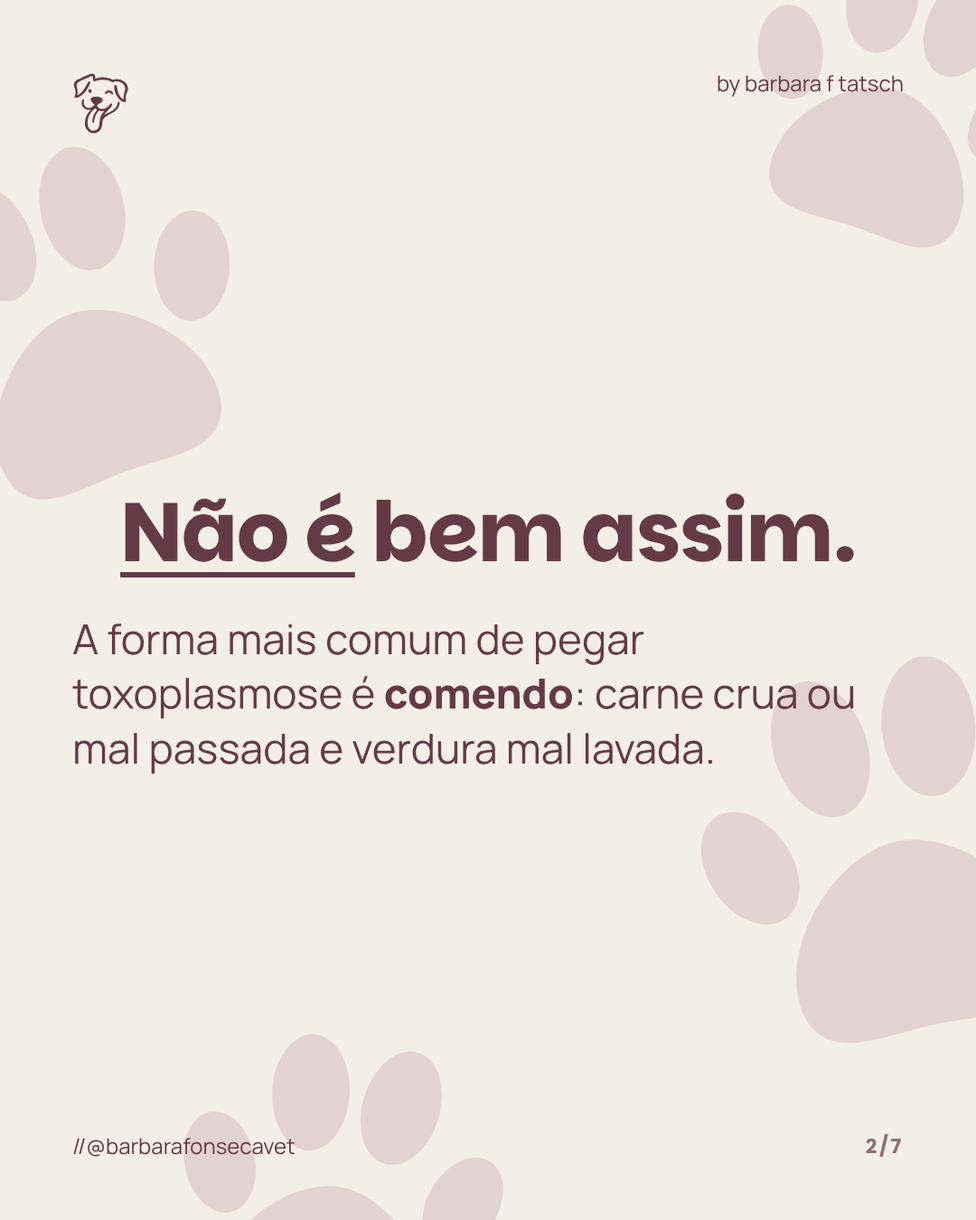
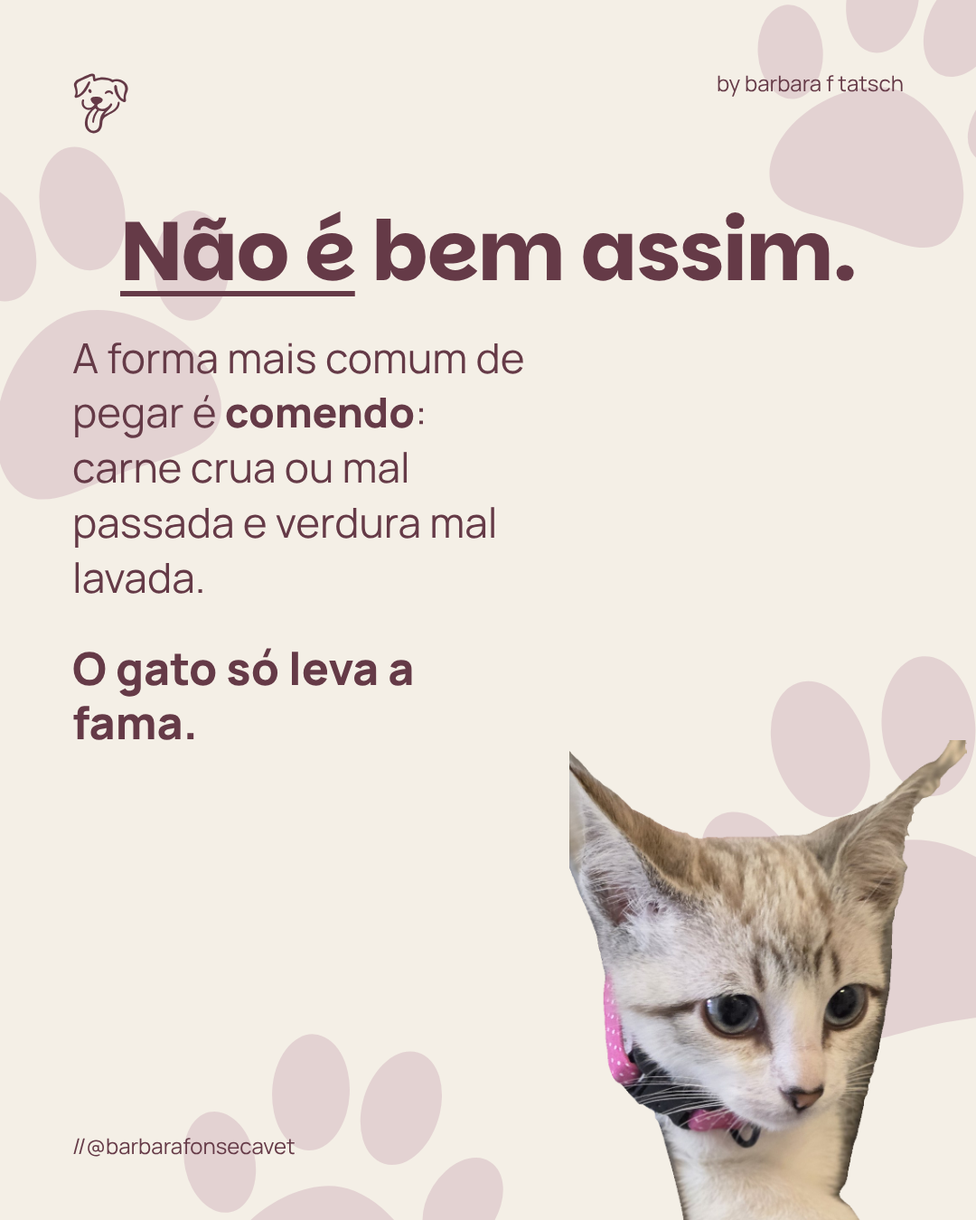
Carrosséis misturando os 8 estilos do Figma da Barbara
Claude-Session: https://claude.ai/code/session_012dBNqwcpy8QWcz4DKmFao3

Changed region(s): [[0.0611, 0.28, 1.0, 1.0], [0.1222, 0.1556, 0.8861, 0.2489]]

diff --git a/Barbara/posts/carrosseis-figma/01-toxoplasmose.html b/Barbara/posts/carrosseis-figma/01-toxoplasmose.html
@@ -1,46 +1,33 @@
-<!doctype html><html lang="pt-BR"><head><meta charset="utf-8"><title>Toxoplasmose é doença do gato?</title>
-<link rel="stylesheet" href="../../design-system/components/bundle.css"><link rel="stylesheet" href="estilo.css"></head><body><div class="tira">
+<!doctype html><html lang="pt-BR"><head><meta charset="utf-8"><link rel="stylesheet" href="../../design-system/components/bundle.css"><link rel="stylesheet" href="estilo.css"><title>Toxoplasmose é doença do gato?</title></head><body><div class="tira">
+
+<section class="s foto-s"><img class="foto" src="../../design-system/assets/Fotos/dois-gatos.jpg" alt="Dois gatos encostando o focinho"><div class="sombra-topo"></div><i class="bf-logo"></i><p class="by">by barbara f tatsch</p><p class="handle">//@barbarafonsecavet</p>
+  <div class="grupo-baixo"><div class="bf-tarja"><span>Toxoplasmose é</span><span><b>doença do gato?</b> 🐈</span></div></div></section>
 
 <section class="s creme"><i class="pata" style="left:-130px;top:150px;width:420px;height:420px;transform:rotate(-20deg)"></i><i class="pata" style="right:-90px;top:-70px;width:360px;height:360px;transform:rotate(18deg)"></i><i class="pata" style="right:-150px;bottom:170px;width:470px;height:470px;transform:rotate(-12deg)"></i><i class="pata" style="left:180px;bottom:-170px;width:390px;height:390px;transform:rotate(10deg)"></i> <i class="bf-logo"></i><p class="by">by barbara f tatsch</p><p class="handle">//@barbarafonsecavet</p>
-  <img class="recorte" src="recorte-filhote-gato.png" alt="" style="right:20px;bottom:0;width:470px">
-  <div class="miolo" style="justify-content:flex-start;top:230px">
-    <h1 class="titulo">Toxoplasmose é <u>doença do gato</u>?</h1>
-    <p class="corpo" style="max-width:500px">Muita gente acha que sim. Tem até quem pense em <b>doar o gato</b> quando descobre a gravidez.</p>
-    <p class="fecho" style="max-width:500px">Vem que eu te explico 💗</p>
-  </div>
-</section>
+  <img class="recorte" src="recorte-filhote-gato.png" alt="" style="right:10px;bottom:0;width:440px">
+  <div class="miolo" style="justify-content:flex-start;top:230px"><h2 class="titulo"><u>Não é</u> bem assim.</h2>
+  <p class="corpo" style="max-width:520px">A forma mais comum de pegar é <b>comendo</b>: carne crua ou mal passada e verdura mal lavada.</p>
+  <p class="fecho" style="max-width:520px">O gato só leva a fama.</p></div></section>
 
-<section class="s creme"><i class="pata" style="left:-130px;top:150px;width:420px;height:420px;transform:rotate(-20deg)"></i><i class="pata" style="right:-90px;top:-70px;width:360px;height:360px;transform:rotate(18deg)"></i><i class="pata" style="right:-150px;bottom:170px;width:470px;height:470px;transform:rotate(-12deg)"></i><i class="pata" style="left:180px;bottom:-170px;width:390px;height:390px;transform:rotate(10deg)"></i> <i class="bf-logo"></i><p class="by">by barbara f tatsch</p><p class="handle">//@barbarafonsecavet</p><p class="pag">2/7</p>
-  <div class="miolo"><h2 class="titulo"><u>Não é</u> bem assim.</h2>
-  <p class="corpo">A forma mais comum de pegar toxoplasmose é <b>comendo</b>: carne crua ou mal passada e verdura mal lavada.</p></div>
-</section>
+<section class="s foto-s"><img class="foto" src="../../design-system/assets/Fotos/pet-caminhando.webp" alt="Gato frajola no jardim"><div class="sombra-baixo"></div><i class="bf-logo"></i><p class="by">by barbara f tatsch</p><p class="handle">//@barbarafonsecavet</p>
+  <div class="grupo-topo"><div class="bf-tarja bf-tarja--salvia"><span>O gato <b>elimina pouco</b></span></div></div>
+  <div class="texto-pe"><p class="texto-foto">Ele só solta o parasita no cocô <b>por poucas semanas</b>, geralmente <u>na primeira vez que se infecta</u>.</p></div></section>
 
-<section class="s creme"><i class="pata" style="left:-130px;top:150px;width:420px;height:420px;transform:rotate(-20deg)"></i><i class="pata" style="right:-90px;top:-70px;width:360px;height:360px;transform:rotate(18deg)"></i><i class="pata" style="right:-150px;bottom:170px;width:470px;height:470px;transform:rotate(-12deg)"></i><i class="pata" style="left:180px;bottom:-170px;width:390px;height:390px;transform:rotate(10deg)"></i> <i class="bf-logo"></i><p class="by">by barbara f tatsch</p><p class="handle">//@barbarafonsecavet</p><p class="pag">3/7</p>
-  <div class="miolo"><h2 class="titulo">O gato <u>elimina pouco</u>.</h2>
-  <p class="corpo">Ele só solta o parasita no cocô <b>por poucas semanas</b>, geralmente na primeira vez que se infecta.</p></div>
-</section>
+<section class="s vinho"><i class="bf-logo"></i><p class="by">by barbara f tatsch</p><p class="handle">//@barbarafonsecavet</p>
+  <h2 class="e5-titulo">E o cocô fresquinho não passa.</h2>
+  <img class="recorte" src="recorte-dois-gatos.png" alt="" style="right:-40px;bottom:120px;width:520px">
+  <p class="e5-texto">Ele leva <b>de 1 a 5 dias</b> pra ficar infectante. Limpar a caixinha <b>todo dia</b> já corta esse caminho.</p></section>
 
-<section class="s creme"><i class="pata" style="left:-130px;top:150px;width:420px;height:420px;transform:rotate(-20deg)"></i><i class="pata" style="right:-90px;top:-70px;width:360px;height:360px;transform:rotate(18deg)"></i><i class="pata" style="right:-150px;bottom:170px;width:470px;height:470px;transform:rotate(-12deg)"></i><i class="pata" style="left:180px;bottom:-170px;width:390px;height:390px;transform:rotate(10deg)"></i> <i class="bf-logo"></i><p class="by">by barbara f tatsch</p><p class="handle">//@barbarafonsecavet</p><p class="pag">4/7</p>
-  <div class="miolo"><h2 class="titulo">E o cocô <u>fresquinho</u> não passa.</h2>
-  <p class="corpo">Ele leva <b>de 1 a 5 dias</b> pra ficar infectante. Limpar a caixinha <b>todo dia</b> já corta esse caminho.</p></div>
-</section>
+<section class="s foto-s"><img class="foto" src="../../design-system/assets/Fotos/filhote-gato-no-casaco.jpg" alt="Gatinho no colo, dentro do casaco"><div class="sombra-topo" style="background:linear-gradient(180deg,rgba(40,15,24,.6) 0%,rgba(40,15,24,.25) 30%,rgba(40,15,24,0) 45%)"></div><i class="bf-logo"></i><p class="by">by barbara f tatsch</p><p class="handle">//@barbarafonsecavet</p>
+  <div class="grupo-topo"><div class="bf-tarja"><span>Grávida? <b>Fica com o gato.</b></span></div>
+  <p class="texto-mini">Pede pra outra pessoa limpar a caixinha. Se não der, usa <b>luva</b> e <b>lava bem as mãos</b>.</p></div></section>
 
-<section class="s creme"><i class="pata" style="left:-130px;top:150px;width:420px;height:420px;transform:rotate(-20deg)"></i><i class="pata" style="right:-90px;top:-70px;width:360px;height:360px;transform:rotate(18deg)"></i><i class="pata" style="right:-150px;bottom:170px;width:470px;height:470px;transform:rotate(-12deg)"></i><i class="pata" style="left:180px;bottom:-170px;width:390px;height:390px;transform:rotate(10deg)"></i> <i class="bf-logo"></i><p class="by">by barbara f tatsch</p><p class="handle">//@barbarafonsecavet</p><p class="pag">5/7</p>
-  <div class="miolo"><h2 class="titulo">Grávida? <u>Fica com o gato</u>.</h2>
-  <p class="corpo">Pede pra outra pessoa limpar a caixinha. Se não der, usa <b>luva</b> e <b>lava bem as mãos</b> depois.</p></div>
-</section>
+<section class="s"><img class="fundo-escuro" src="../../design-system/assets/Fotos/gato-cinza-cadeira.jpg" alt=""><i class="bf-logo"></i><p class="by">by barbara f tatsch</p><p class="handle">//@barbarafonsecavet</p>
+  <h2 class="e7-titulo">Gato de apartamento</h2>
+  <div class="e7-quadro" role="img" aria-label="Gato cinza espiando atrás da mesa" style="background:url(../../design-system/assets/Fotos/gato-cinza-cadeira.jpg) 47% 47%/240% auto no-repeat"></div>
+  <p class="e7-texto">que come ração e não caça tem <b>bem menos chance</b> de se infectar.</p></section>
 
-<section class="s creme"><i class="pata" style="left:-130px;top:150px;width:420px;height:420px;transform:rotate(-20deg)"></i><i class="pata" style="right:-90px;top:-70px;width:360px;height:360px;transform:rotate(18deg)"></i><i class="pata" style="right:-150px;bottom:170px;width:470px;height:470px;transform:rotate(-12deg)"></i><i class="pata" style="left:180px;bottom:-170px;width:390px;height:390px;transform:rotate(10deg)"></i> <i class="bf-logo"></i><p class="by">by barbara f tatsch</p><p class="handle">//@barbarafonsecavet</p><p class="pag">6/7</p>
-  <div class="miolo"><h2 class="titulo">Gato de <u>apartamento</u></h2>
-  <p class="corpo">que come ração e não caça tem <b>bem menos chance</b> de se infectar.</p></div>
-</section>
-
-<section class="s creme"><i class="pata" style="left:-130px;top:150px;width:420px;height:420px;transform:rotate(-20deg)"></i><i class="pata" style="right:-90px;top:-70px;width:360px;height:360px;transform:rotate(18deg)"></i><i class="pata" style="right:-150px;bottom:170px;width:470px;height:470px;transform:rotate(-12deg)"></i><i class="pata" style="left:180px;bottom:-170px;width:390px;height:390px;transform:rotate(10deg)"></i> <i class="bf-logo"></i><p class="by">by barbara f tatsch</p><p class="handle">//@barbarafonsecavet</p><p class="pag">7/7</p>
-  <img class="recorte" src="recorte-gata-escaminha.png" alt="" style="right:40px;bottom:0;width:380px">
-  <div class="miolo" style="justify-content:flex-start;top:260px">
-    <h2 class="titulo">Conhece uma <u>tutora grávida</u>?</h2>
-    <p class="fecho" style="max-width:500px">Manda esse post pra ela 🫶</p>
-  </div>
-</section>
+<section class="s creme"><i class="bf-logo"></i><p class="by">by barbara f tatsch</p><p class="handle">//@barbarafonsecavet</p>
+  <p class="e8-texto">Conhece uma <b>tutora grávida</b> que tem gato? Manda esse post pra ela 🫶</p></section>
 
 </div></body></html>

diff --git a/Barbara/posts/carrosseis-figma/03-na-hora-da-vacina.html b/Barbara/posts/carrosseis-figma/03-na-hora-da-vacina.html
@@ -1,43 +1,31 @@
-<!doctype html><html lang="pt-BR"><head><meta charset="utf-8"><title>O que ele tenta te dizer na hora da vacina</title>
-<link rel="stylesheet" href="../../design-system/components/bundle.css"><link rel="stylesheet" href="estilo.css"></head><body><div class="tira">
+<!doctype html><html lang="pt-BR"><head><meta charset="utf-8"><link rel="stylesheet" href="../../design-system/components/bundle.css"><link rel="stylesheet" href="estilo.css"><title>O que ele tenta te dizer na hora da vacina</title></head><body><div class="tira">
 
-<section class="s ameixa">
-  <img class="foto" src="../../design-system/assets/Fotos/filhote-gato-no-casaco.jpg" alt="Gatinho dentro do casaco do tutor" style="object-position:50% 35%">
-  <i class="bf-logo" style="color:#F7F0E4"></i><p class="by">by barbara f tatsch</p><p class="handle">//@barbarafonsecavet</p>
-  <div style="position:absolute;z-index:2;left:60px;right:60px;bottom:150px;display:flex;flex-direction:column;align-items:center;gap:22px">
-    <div class="bf-tarja bf-tarja--salvia"><span>O que <b>ele</b> tenta</span><span><b>te dizer</b></span></div>
-    <span class="etiqueta">[na hora da vacina?]</span>
-  </div>
-</section>
+<section class="s foto-s"><img class="foto" src="../../design-system/assets/Fotos/pitbull-cinza-mesa.jpg" alt="Filhote cinza na mesa do consultório" style="object-position:50% 30%"><div class="sombra-topo"></div><i class="bf-logo"></i><p class="by">by barbara f tatsch</p><p class="handle">//@barbarafonsecavet</p>
+  <div class="grupo-baixo"><div class="bf-tarja bf-tarja--salvia"><span>O que <b>ele</b> tenta</span><span><b>te dizer</b></span></div><span class="etiqueta">[na hora da vacina?]</span></div></section>
 
-<section class="s salvia"><i class="pata" style="left:-130px;top:150px;width:420px;height:420px;transform:rotate(-20deg)"></i><i class="pata" style="right:-90px;top:-70px;width:360px;height:360px;transform:rotate(18deg)"></i><i class="pata" style="right:-150px;bottom:170px;width:470px;height:470px;transform:rotate(-12deg)"></i><i class="pata" style="left:180px;bottom:-170px;width:390px;height:390px;transform:rotate(10deg)"></i> <i class="bf-logo"></i><p class="by">by barbara f tatsch</p><p class="handle">//@barbarafonsecavet</p><p class="pag">2/7</p>
-  <div class="miolo"><h2 class="titulo">Orelha <u>pra trás</u></h2>
-  <p class="corpo">Olho arregalado, corpinho encolhido, rabo escondido. <b>Isso é medo.</b></p></div>
-</section>
+<section class="s foto-s"><img class="foto" src="../../design-system/assets/Fotos/filhote-gato-no-casaco.jpg" alt="Gatinho de olhos arregalados" style="object-position:50% 20%"><div class="sombra-topo" style="background:linear-gradient(180deg,rgba(40,15,24,.6) 0%,rgba(40,15,24,.25) 30%,rgba(40,15,24,0) 45%)"></div><i class="bf-logo"></i><p class="by">by barbara f tatsch</p><p class="handle">//@barbarafonsecavet</p>
+  <div class="grupo-topo"><div class="bf-tarja"><span>Orelha <b>pra trás</b>,</span></div>
+  <p class="texto-mini">olho arregalado, corpinho encolhido, rabo escondido. <b>Isso é medo.</b></p></div></section>
 
-<section class="s salvia"><i class="pata" style="left:-130px;top:150px;width:420px;height:420px;transform:rotate(-20deg)"></i><i class="pata" style="right:-90px;top:-70px;width:360px;height:360px;transform:rotate(18deg)"></i><i class="pata" style="right:-150px;bottom:170px;width:470px;height:470px;transform:rotate(-12deg)"></i><i class="pata" style="left:180px;bottom:-170px;width:390px;height:390px;transform:rotate(10deg)"></i> <i class="bf-logo"></i><p class="by">by barbara f tatsch</p><p class="handle">//@barbarafonsecavet</p><p class="pag">3/7</p>
-  <div class="miolo"><h2 class="titulo">Medo <u>não é manha</u>.</h2>
-  <p class="corpo">Ele não tá sendo chato. Ele tá <b>tentando se proteger</b>.</p></div>
-</section>
+<section class="s creme"><i class="pata" style="left:-130px;top:150px;width:420px;height:420px;transform:rotate(-20deg)"></i><i class="pata" style="right:-90px;top:-70px;width:360px;height:360px;transform:rotate(18deg)"></i><i class="pata" style="right:-150px;bottom:170px;width:470px;height:470px;transform:rotate(-12deg)"></i><i class="pata" style="left:180px;bottom:-170px;width:390px;height:390px;transform:rotate(10deg)"></i> <i class="bf-logo"></i><p class="by">by barbara f tatsch</p><p class="handle">//@barbarafonsecavet</p>
+  <img class="recorte" src="recorte-shih-tzu.png" alt="" style="right:0;bottom:0;width:440px">
+  <div class="miolo" style="justify-content:flex-start;top:230px"><h2 class="titulo">Medo <u>não é manha</u>.</h2>
+  <p class="corpo" style="max-width:520px">Ele não tá sendo chato. Ele tá <b>tentando se proteger</b>.</p></div></section>
 
-<section class="s salvia"><i class="pata" style="left:-130px;top:150px;width:420px;height:420px;transform:rotate(-20deg)"></i><i class="pata" style="right:-90px;top:-70px;width:360px;height:360px;transform:rotate(18deg)"></i><i class="pata" style="right:-150px;bottom:170px;width:470px;height:470px;transform:rotate(-12deg)"></i><i class="pata" style="left:180px;bottom:-170px;width:390px;height:390px;transform:rotate(10deg)"></i> <i class="bf-logo"></i><p class="by">by barbara f tatsch</p><p class="handle">//@barbarafonsecavet</p><p class="pag">4/7</p>
-  <div class="miolo"><h2 class="titulo">Por isso, na <u>minha consulta</u>:</h2>
-  <p class="corpo"><b>Luz baixa</b>, <b>música</b> e <b>petisco</b> na mão.</p></div>
-</section>
+<section class="s vinho"><i class="bf-logo"></i><p class="by">by barbara f tatsch</p><p class="handle">//@barbarafonsecavet</p>
+  <h2 class="e5-titulo">Por isso, na minha consulta:</h2>
+  <img class="recorte" src="recorte-pitbull-marrom.png" alt="" style="right:0;bottom:0;width:440px">
+  <p class="e5-texto"><b>luz baixa</b>, <b>música</b> e <b>petisco</b> na mão.</p></section>
 
-<section class="s salvia"><i class="pata" style="left:-130px;top:150px;width:420px;height:420px;transform:rotate(-20deg)"></i><i class="pata" style="right:-90px;top:-70px;width:360px;height:360px;transform:rotate(18deg)"></i><i class="pata" style="right:-150px;bottom:170px;width:470px;height:470px;transform:rotate(-12deg)"></i><i class="pata" style="left:180px;bottom:-170px;width:390px;height:390px;transform:rotate(10deg)"></i> <i class="bf-logo"></i><p class="by">by barbara f tatsch</p><p class="handle">//@barbarafonsecavet</p><p class="pag">5/7</p>
-  <div class="miolo"><h2 class="titulo">O <u>petisco</u> é meu aliado</h2>
-  <p class="corpo">Enquanto ele come, eu aplico. E a vacina passa <b>bem mais tranquila</b>.</p></div>
-</section>
+<section class="s foto-s"><img class="foto" src="../../design-system/assets/Fotos/tosa-filhote-preto.jpg" alt="Filhote preto comendo petisco no potinho"><div class="sombra-baixo"></div><i class="bf-logo"></i><p class="by">by barbara f tatsch</p><p class="handle">//@barbarafonsecavet</p>
+  <div class="grupo-baixo"><div class="bf-tarja bf-tarja--salvia"><span>O <b>petisco</b> é meu <b>aliado</b></span></div>
+  <p class="texto-mini">Enquanto ele come, eu aplico. E a vacina passa <b>bem mais tranquila</b>.</p></div></section>
 
-<section class="s salvia"><i class="pata" style="left:-130px;top:150px;width:420px;height:420px;transform:rotate(-20deg)"></i><i class="pata" style="right:-90px;top:-70px;width:360px;height:360px;transform:rotate(18deg)"></i><i class="pata" style="right:-150px;bottom:170px;width:470px;height:470px;transform:rotate(-12deg)"></i><i class="pata" style="left:180px;bottom:-170px;width:390px;height:390px;transform:rotate(10deg)"></i> <i class="bf-logo"></i><p class="by">by barbara f tatsch</p><p class="handle">//@barbarafonsecavet</p><p class="pag">6/7</p>
-  <div class="miolo"><h2 class="titulo">E no fim...</h2>
-  <p class="corpo">todo paciente ganha <b>certificado de coragem</b> 🏅</p></div>
-</section>
+<section class="s foto-s"><img class="foto" src="../../design-system/assets/Fotos/dalmata-mesa.jpg" alt="Dálmata posando na mesa"><div class="sombra-baixo"></div><i class="bf-logo"></i><p class="by">by barbara f tatsch</p><p class="handle">//@barbarafonsecavet</p>
+  <div class="grupo-topo"><div class="bf-tarja bf-tarja--salvia"><span>E no fim, <b>certificado</b></span><span><b>de coragem</b> 🏅</span></div></div>
+  <div class="texto-pe"><p class="texto-foto">Todo paciente meu ganha um. <u>Quem segurou firme na hora também merece.</u></p></div></section>
 
-<section class="s ameixa"><i class="bf-logo"></i><p class="by">by barbara f tatsch</p><p class="handle">//@barbarafonsecavet</p><p class="pag">7/7</p>
-  <div class="miolo"><h2 class="titulo" style="color:#F7F0E4">Seu bichinho fica <u>nervoso</u> no vet?</h2>
-  <p class="corpo" style="text-align:center">Me conta como ele reage 👇</p></div>
-</section>
+<section class="s creme"><i class="bf-logo"></i><p class="by">by barbara f tatsch</p><p class="handle">//@barbarafonsecavet</p>
+  <p class="e8-texto">Seu bichinho <b>fica nervoso no vet</b>? Me conta como ele reage 👇</p></section>
 
 </div></body></html>

diff --git a/Barbara/posts/carrosseis-figma/02-um-conselho.html b/Barbara/posts/carrosseis-figma/02-um-conselho.html
@@ -1,43 +1,32 @@
-<!doctype html><html lang="pt-BR"><head><meta charset="utf-8"><title>Se eu pudesse dar só um conselho</title>
-<link rel="stylesheet" href="../../design-system/components/bundle.css"><link rel="stylesheet" href="estilo.css"></head><body><div class="tira">
+<!doctype html><html lang="pt-BR"><head><meta charset="utf-8"><link rel="stylesheet" href="../../design-system/components/bundle.css"><link rel="stylesheet" href="estilo.css"><title>Se eu pudesse dar só um conselho</title></head><body><div class="tira">
 
-<section class="s ameixa">
-  <img class="foto" src="../../design-system/assets/Fotos/barbara-retrato.jpg" alt="Barbara" style="object-position:50% 30%">
-  <i class="bf-logo" style="color:#F7F0E4"></i><p class="by">by barbara f tatsch</p><p class="handle">//@barbarafonsecavet</p>
-  <div style="position:absolute;z-index:2;left:60px;right:60px;bottom:150px;display:flex;flex-direction:column;align-items:center;gap:22px">
-    <div class="bf-tarja"><span>Se eu pudesse dar</span><span><b>só um conselho</b></span></div>
-    <span class="etiqueta">[pra todo tutor...]</span>
-  </div>
-</section>
+<section class="s foto-s"><img class="foto" src="../../design-system/assets/Fotos/barbara-retrato.jpg" alt="Barbara" style="object-position:50% 30%"><div class="sombra-topo"></div><i class="bf-logo"></i><p class="by">by barbara f tatsch</p><p class="handle">//@barbarafonsecavet</p>
+  <div class="grupo-baixo"><div class="bf-tarja"><span>Se eu pudesse dar</span><span><b>só um conselho</b></span></div><span class="etiqueta">[pra todo tutor...]</span></div></section>
 
-<section class="s ameixa"><i class="bf-logo"></i><p class="by">by barbara f tatsch</p><p class="handle">//@barbarafonsecavet</p><p class="pag">2/7</p>
-  <div class="miolo"><div class="bf-tarja bf-tarja--salvia"><span>Leva ele no <b>check-up</b></span><span><b>mesmo com ele ótimo.</b></span></div>
-  <p class="corpo" style="text-align:center">Uma vez por ano, pelo menos.</p></div>
-</section>
+<section class="s creme"><i class="pata" style="left:-130px;top:150px;width:420px;height:420px;transform:rotate(-20deg)"></i><i class="pata" style="right:-90px;top:-70px;width:360px;height:360px;transform:rotate(18deg)"></i><i class="pata" style="right:-150px;bottom:170px;width:470px;height:470px;transform:rotate(-12deg)"></i><i class="pata" style="left:180px;bottom:-170px;width:390px;height:390px;transform:rotate(10deg)"></i> <i class="bf-logo"></i><p class="by">by barbara f tatsch</p><p class="handle">//@barbarafonsecavet</p>
+  <img class="recorte" src="recorte-pitbull-cinza.png" alt="" style="right:0;bottom:0;width:430px">
+  <div class="miolo" style="justify-content:flex-start;top:230px"><h2 class="titulo">Leva ele no <u>check&#8209;up</u></h2>
+  <p class="corpo" style="max-width:520px"><b>mesmo com ele ótimo.</b> Uma vez por ano, pelo menos.</p></div></section>
 
-<section class="s ameixa"><i class="bf-logo"></i><p class="by">by barbara f tatsch</p><p class="handle">//@barbarafonsecavet</p><p class="pag">3/7</p>
-  <div class="miolo"><div class="bf-tarja bf-tarja--salvia"><span><b>Por quê?</b></span></div>
-  <p class="corpo" style="text-align:center">Bicho <b>esconde dor muito bem</b>. Gato, então, é campeão nisso.</p></div>
-</section>
+<section class="s foto-s"><img class="foto" src="../../design-system/assets/Fotos/pet-golden.webp" alt="Golden sorrindo"><div class="sombra-baixo"></div><i class="bf-logo"></i><p class="by">by barbara f tatsch</p><p class="handle">//@barbarafonsecavet</p>
+  <div class="grupo-topo"><div class="bf-tarja bf-tarja--salvia"><span>Bicho <b>esconde dor</b></span><span><b>muito bem</b></span></div></div>
+  <div class="texto-pe"><p class="texto-foto">Gato, então, é campeão nisso. <u>Por fora, ele parece ótimo.</u></p></div></section>
 
-<section class="s ameixa"><i class="bf-logo"></i><p class="by">by barbara f tatsch</p><p class="handle">//@barbarafonsecavet</p><p class="pag">4/7</p>
-  <div class="miolo"><div class="bf-tarja bf-tarja--salvia"><span>O exame <b>enxerga antes</b></span></div>
-  <p class="corpo" style="text-align:center">O exame de sangue mostra o <b>rim mudando antes de qualquer sinal</b>.</p></div>
-</section>
+<section class="s vinho"><i class="bf-logo"></i><p class="by">by barbara f tatsch</p><p class="handle">//@barbarafonsecavet</p>
+  <h2 class="e5-titulo">O exame enxerga antes.</h2>
+  <img class="recorte" src="recorte-dalmata.png" alt="" style="right:40px;bottom:0;width:330px">
+  <p class="e5-texto">O exame de sangue mostra o <b>rim mudando antes de qualquer sinal</b>.</p></section>
 
-<section class="s ameixa"><i class="bf-logo"></i><p class="by">by barbara f tatsch</p><p class="handle">//@barbarafonsecavet</p><p class="pag">5/7</p>
-  <div class="miolo"><div class="bf-tarja bf-tarja--salvia"><span>Idoso vai <b>mais vezes</b></span></div>
-  <p class="corpo" style="text-align:center">Quanto mais velhinho, <b>mais perto</b> a gente acompanha.</p></div>
-</section>
+<section class="s foto-s"><img class="foto" src="../../design-system/assets/Fotos/buldogue-e-pequines.jpg" alt="Buldogue e pequinês deitados"><div class="sombra-baixo"></div><i class="bf-logo"></i><p class="by">by barbara f tatsch</p><p class="handle">//@barbarafonsecavet</p>
+  <div class="grupo-baixo"><div class="bf-tarja bf-tarja--salvia"><span>Idoso vai <b>mais vezes</b></span></div>
+  <p class="texto-mini">Quanto mais velhinho, <b>mais perto</b> a gente acompanha.</p></div></section>
 
-<section class="s ameixa"><i class="bf-logo"></i><p class="by">by barbara f tatsch</p><p class="handle">//@barbarafonsecavet</p><p class="pag">6/7</p>
-  <div class="miolo"><div class="bf-tarja bf-tarja--salvia"><span><b>Meu objetivo</b></span></div>
-  <p class="corpo" style="text-align:center">é que você <b>não precise de mim</b>. E isso começa com ele bem 💗</p></div>
-</section>
+<section class="s"><img class="fundo-escuro" src="../../design-system/assets/Fotos/barbara-consultorio.jpg" alt=""><i class="bf-logo"></i><p class="by">by barbara f tatsch</p><p class="handle">//@barbarafonsecavet</p>
+  <h2 class="e7-titulo">Meu objetivo</h2>
+  <img class="e7-quadro" src="../../design-system/assets/Fotos/barbara-consultorio.jpg" alt="Barbara no consultório" style="object-position:50% 52%">
+  <p class="e7-texto">é que você <b>não precise de mim</b>. E isso começa com ele bem 💗</p></section>
 
-<section class="s salvia"><i class="bf-logo"></i><p class="by">by barbara f tatsch</p><p class="handle">//@barbarafonsecavet</p><p class="pag">7/7</p>
-  <div class="miolo"><div class="bf-tarja"><span>E o seu,</span><span><b>quando foi o último?</b></span></div>
-  <p class="corpo" style="text-align:center">Me conta aqui embaixo 👇</p></div>
-</section>
+<section class="s creme"><i class="bf-logo"></i><p class="by">by barbara f tatsch</p><p class="handle">//@barbarafonsecavet</p>
+  <p class="e8-texto">E o seu, <b>quando foi o último check-up</b>? Me conta aqui embaixo 👇</p></section>
 
 </div></body></html>

diff --git a/Barbara/posts/carrosseis-figma/estilo.css b/Barbara/posts/carrosseis-figma/estilo.css
@@ -27,3 +27,33 @@ body{margin:0;background:#ccc}
 .bf-tarja--salvia>span{background:#A0AD90;color:#3B1E28}
 .etiqueta{display:inline-block;padding:6px 18px 10px;background:#D9C2C6;color:#3B1E28;font:400 46px/1.1 Manrope,sans-serif}
 .pag{position:absolute;z-index:5;right:80px;bottom:70px;margin:0;font:700 22px/1 Parkinsans,sans-serif;letter-spacing:.12em;opacity:.7}
+
+/* ===== Os 8 estilos de slide do Figma (misturar dentro do carrossel) ===== */
+.vinho{background:#3D101E;color:#F7F0E4}
+.foto-s .by,.foto-s .handle{color:#F7F0E4;text-shadow:0 1px 8px rgba(30,10,16,.5)}
+.foto-s .bf-logo{color:#F7F0E4}
+.sombra-topo{position:absolute;inset:0;z-index:1;background:linear-gradient(180deg,rgba(40,15,24,.55) 0%,rgba(40,15,24,0) 28%)}
+.sombra-baixo{position:absolute;inset:0;z-index:1;background:linear-gradient(0deg,rgba(40,15,24,.82) 0%,rgba(40,15,24,.35) 32%,rgba(40,15,24,0) 52%)}
+/* E1 foto + tarjas embaixo | E6 foto + tarjas sálvia embaixo + texto */
+.grupo-baixo{position:absolute;z-index:3;left:60px;right:60px;bottom:140px;display:flex;flex-direction:column;align-items:center;gap:20px;text-align:center}
+/* E2 foto + tarjas sálvia no topo + texto embaixo | E4 foto + tarja no topo + texto logo abaixo */
+.grupo-topo{position:absolute;z-index:3;left:60px;right:60px;top:170px;display:flex;flex-direction:column;align-items:center;gap:18px;text-align:center}
+.texto-foto{margin:0;font:400 42px/1.3 Manrope,sans-serif;color:#F7F0E4;text-shadow:0 2px 12px rgba(30,10,16,.6)}
+.texto-foto b{font-weight:800}
+.texto-foto u{text-decoration-thickness:3px;text-underline-offset:6px}
+.texto-pe{position:absolute;z-index:3;left:80px;right:80px;bottom:130px}
+.texto-mini{margin:0;font:400 34px/1.32 Manrope,sans-serif;color:#F7F0E4;text-shadow:0 2px 10px rgba(30,10,16,.6)}
+.texto-mini b{font-weight:800}
+/* E5 vinho: título grande à esquerda + recorte à direita */
+.e5-titulo{position:absolute;z-index:2;left:80px;top:190px;width:600px;margin:0;font:700 98px/1.02 Parkinsans,sans-serif;letter-spacing:-.02em}
+.e5-texto{position:absolute;z-index:2;left:80px;bottom:150px;width:520px;margin:0;font:400 36px/1.34 Manrope,sans-serif}
+.e5-texto b{font-weight:800}
+/* E7 foto escura de fundo + título + foto emoldurada + texto */
+.fundo-escuro{position:absolute;inset:-40px;width:calc(100% + 80px);height:calc(100% + 80px);object-fit:cover;filter:brightness(.38) blur(6px)}
+.e7-titulo{position:absolute;z-index:2;left:60px;right:60px;top:170px;margin:0;text-align:center;font:700 84px/1.04 Parkinsans,sans-serif;color:#F7F0E4}
+.e7-quadro{position:absolute;z-index:2;left:190px;top:330px;width:700px;height:700px;object-fit:cover}
+.e7-texto{position:absolute;z-index:2;left:110px;right:110px;bottom:150px;margin:0;text-align:center;font:400 34px/1.34 Manrope,sans-serif;color:#F7F0E4}
+.e7-texto b{font-weight:800}
+/* E8 creme liso só com texto */
+.e8-texto{position:absolute;z-index:2;left:110px;right:200px;top:50%;transform:translateY(-50%);margin:0;font:400 44px/1.35 Manrope,sans-serif;color:#653A47}
+.e8-texto b{font-weight:800}
